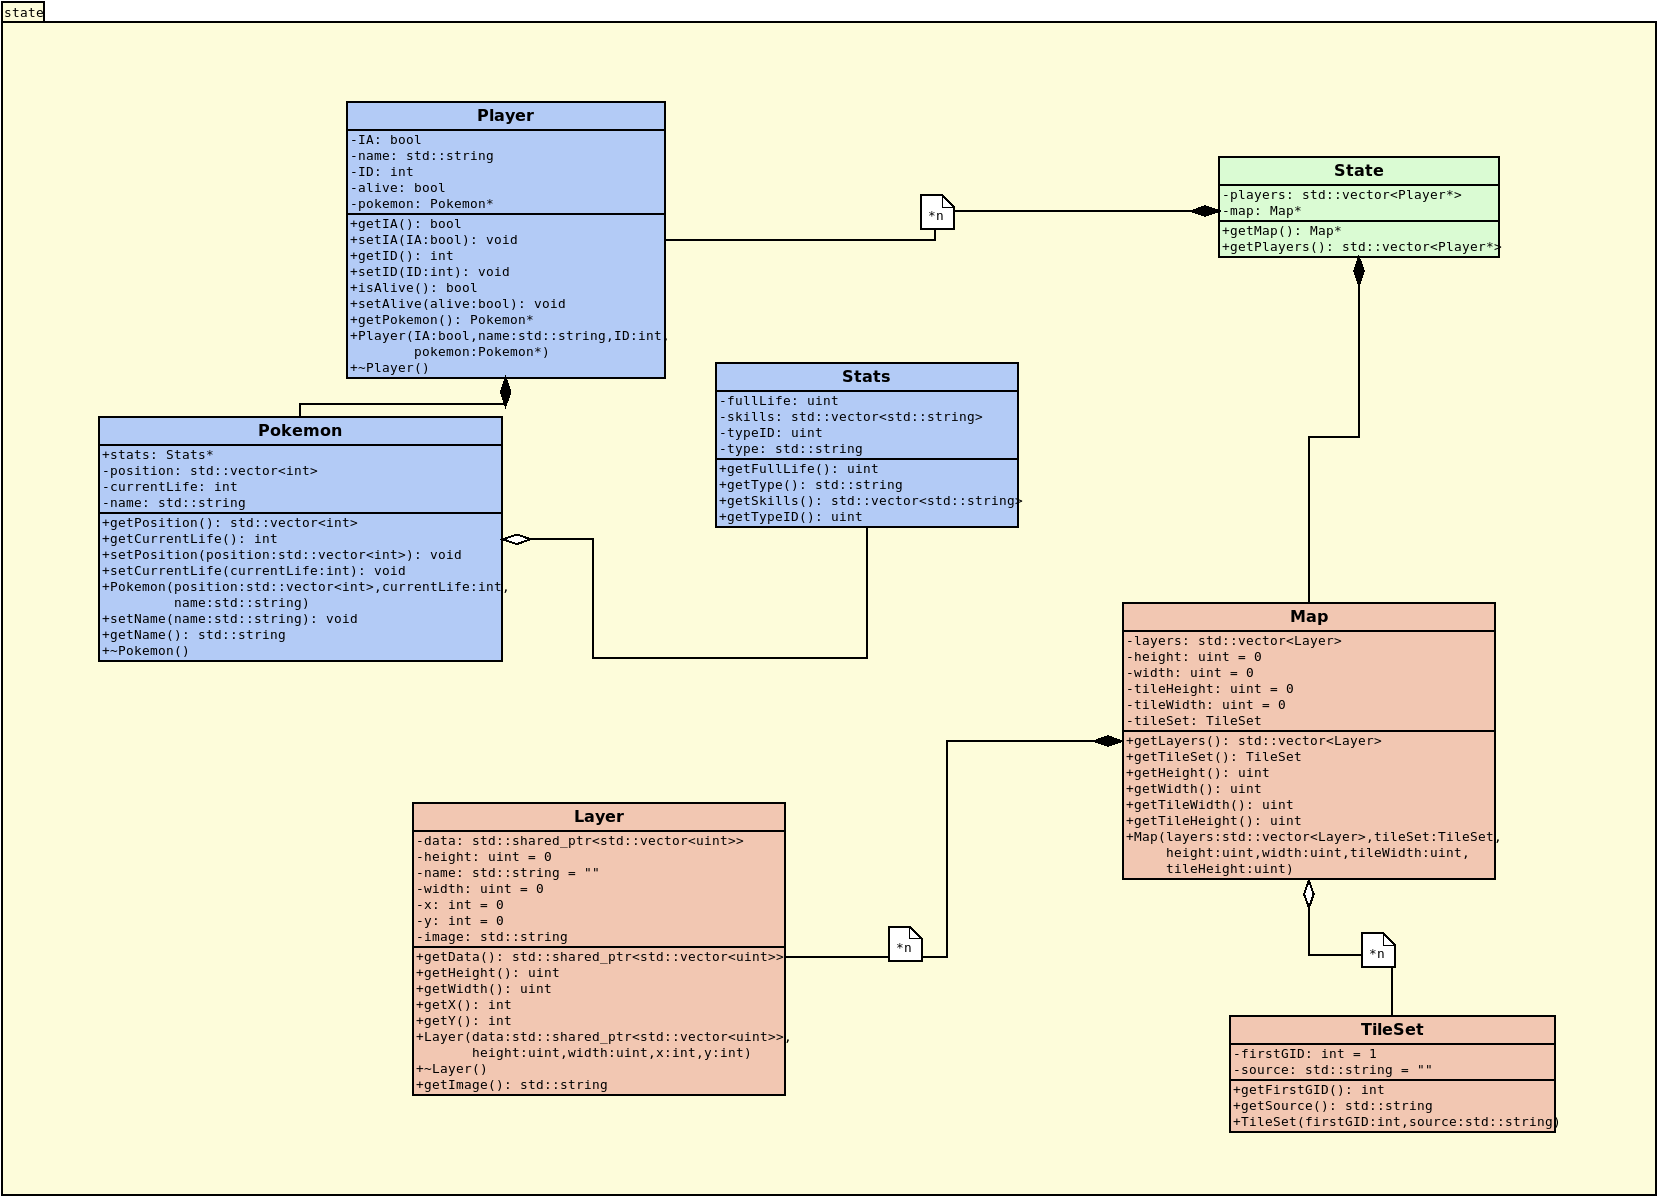
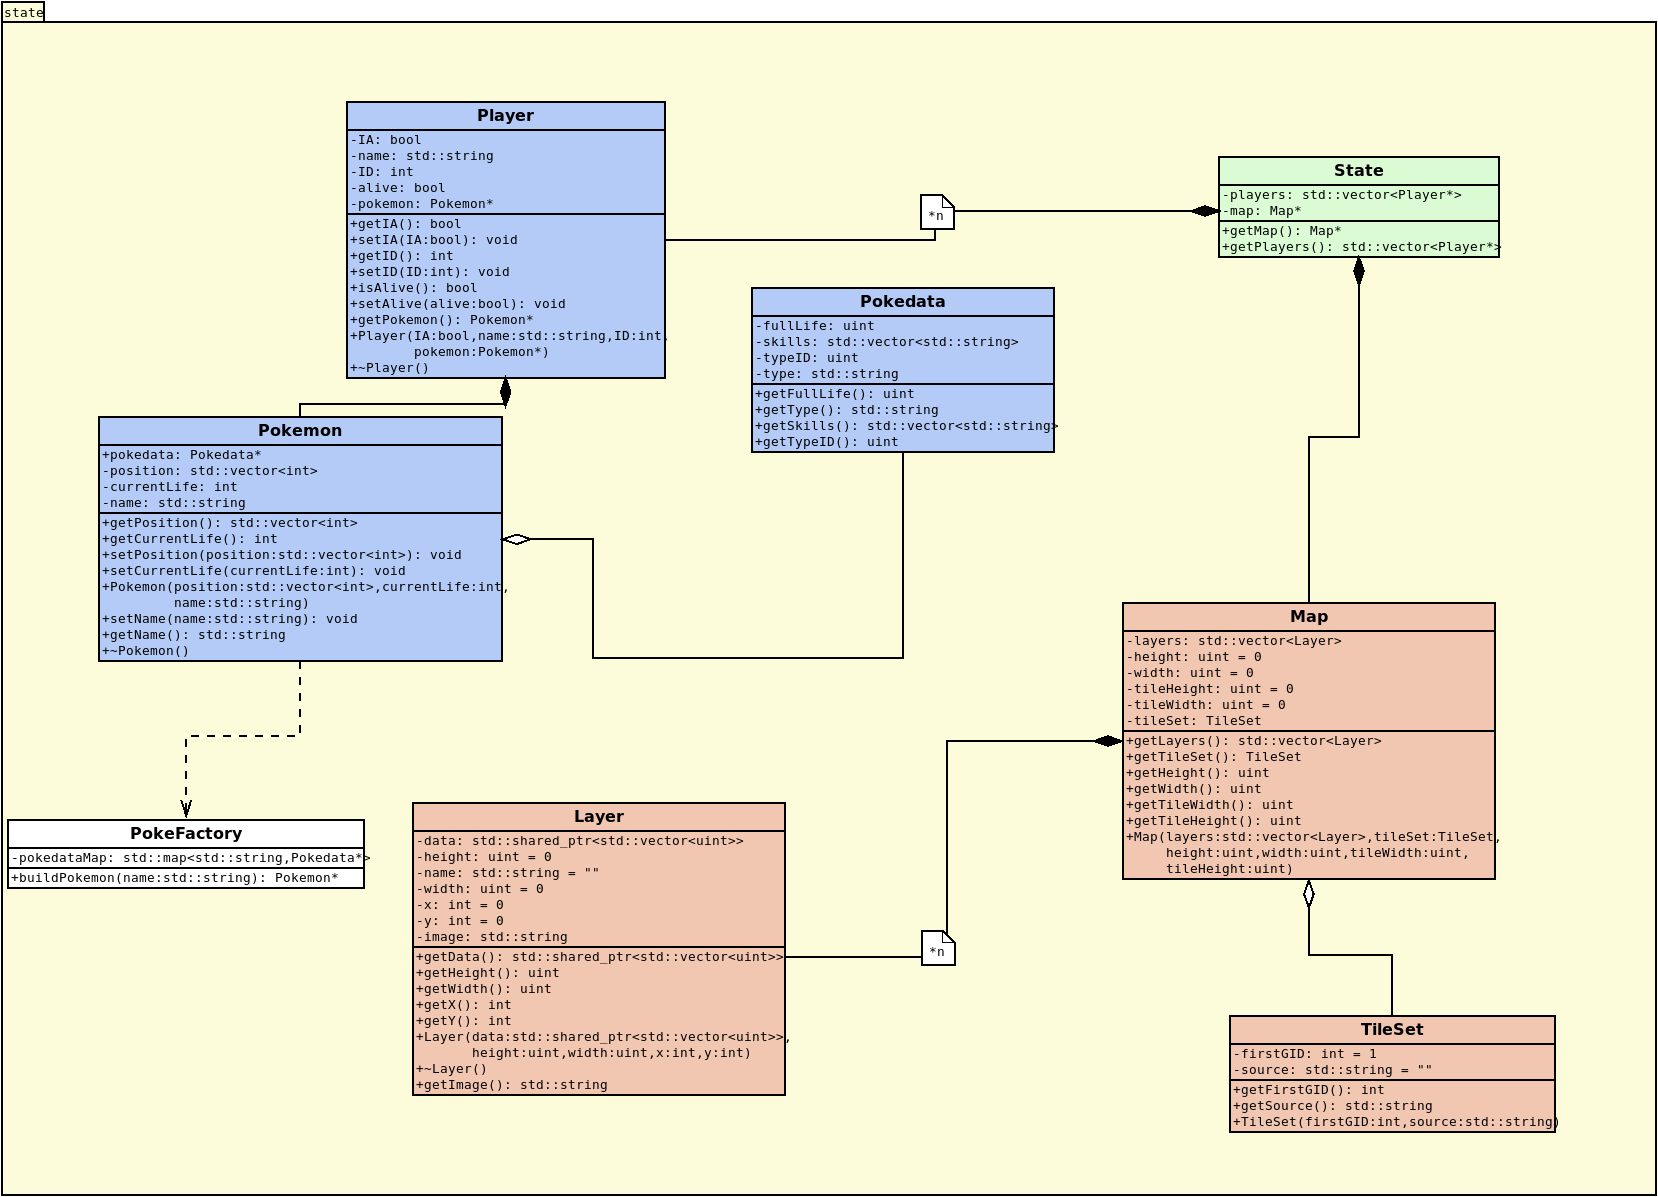
update state.dia

diff --git a/src/client/main.cpp b/src/client/main.cpp
@@ -4,6 +4,7 @@
 #include <SFML/Graphics.hpp>
 #include "state.h"
 #include "resources.h"
+#include <map>
 void testSFML() {
     sf::Texture texture;
 }
@@ -40,7 +41,6 @@ int main(int argc,char* argv[])
         cout << "I don't understand"<< endl;
         cout << "you can only say hello" << endl;
     }
-
 //    sf::RenderWindow window(sf::VideoMode(526,601),"test window");
 
 

diff --git a/src/shared/state/Pokedata.cpp b/src/shared/state/Pokedata.cpp
@@ -1,0 +1,6 @@
+//
+// Created by paul on 28/09/18.
+//
+
+
+
